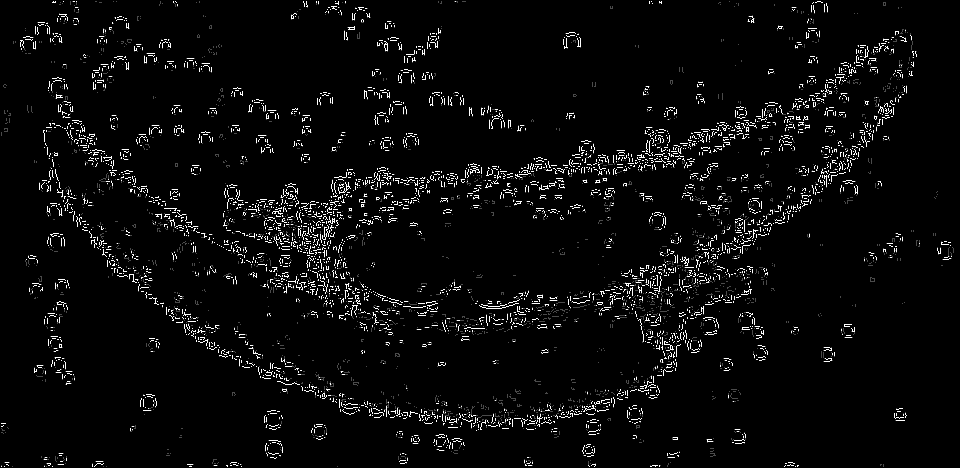
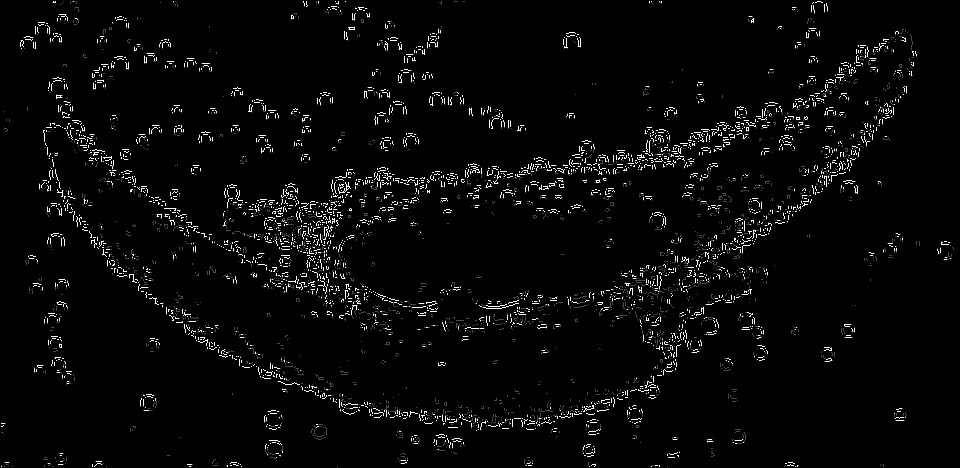
Restore default thresholds and update results

diff --git a/main.cpp b/main.cpp
@@ -13,8 +13,8 @@
 
 int main()
 {
-    const int lowThreshold = 70;
-    const int highThreshold = 140;
+    const int lowThreshold = 100;
+    const int highThreshold = 200;
 
     // ========================================================
     // 1. Load input image

diff --git a/README.md b/README.md
@@ -4,17 +4,25 @@ A learning project implementing the Canny edge detection pipeline in C++ using O
 
 The goal of this project is to understand the individual stages of edge detection by implementing them manually rather than relying entirely on OpenCV's built-in `cv::Canny()` function.
 
+## Results
+
+Both implementations process the same input image. Their outputs are shown side by side for visual comparison.
+
+| Custom Canny | OpenCV Canny |
+|:---:|:---:|
+| ![Custom Canny](images/06_my_own_canny.png) | ![OpenCV Canny](images/07_canny_opencv.png) |
+
 ## Features
 
 The implementation includes the following stages:
 
-1. **Grayscale conversion** - converts the input image to grayscale.
-2. **Gaussian blur** - reduces image noise before edge detection.
-3. **Sobel operators** - calculates horizontal and vertical image gradients.
-4. **Gradient magnitude** - estimates the strength of intensity changes.
-5. **Non-Maximum Suppression (NMS)** - thins detected edges by retaining local gradient maxima.
-6. **Double thresholding** - classifies candidate edges as rejected, weak, or strong.
-7. **Edge tracking by hysteresis** - retains weak edges connected to strong edges using 8-connectivity.
+1. **Grayscale conversion** — converts the input image to grayscale.
+2. **Gaussian blur** — reduces image noise before edge detection.
+3. **Sobel operators** — calculates horizontal and vertical image gradients.
+4. **Gradient magnitude** — estimates the strength of intensity changes.
+5. **Non-Maximum Suppression (NMS)** — thins detected edges by retaining local gradient maxima.
+6. **Double thresholding** — classifies candidate edges as rejected, weak, or strong.
+7. **Edge tracking by hysteresis** — retains weak edges connected to strong edges using 8-connectivity.
 
 Intermediate images are saved to visualize the output of each stage.
 
@@ -44,11 +52,9 @@ Intermediate images are saved to visualize the output of each stage.
 └── README.md
 ```
 
-*The structure above is illustrative; adjust filenames to match the actual repository.*
-
 ## Output
 
-The program saves intermediate results, making it possible to inspect how the image changes throughout the pipeline:
+The program saves intermediate results, making it possible to inspect how the image changes throughout the pipeline.
 
 | File | Description |
 |---|---|
@@ -86,4 +92,4 @@ Completed as an educational implementation. Further improvements may include mor
 
 This project is intended for educational purposes.
 
-The input image is distributed under its own license. See the [original source](https://commons.wikimedia.org/wiki/File:Peppers_in_water.jpg) for licensing details.
+The input image is sourced from [Wikimedia Commons](https://commons.wikimedia.org/wiki/File:Peppers_in_water.jpg). See the original file page for licensing details.
